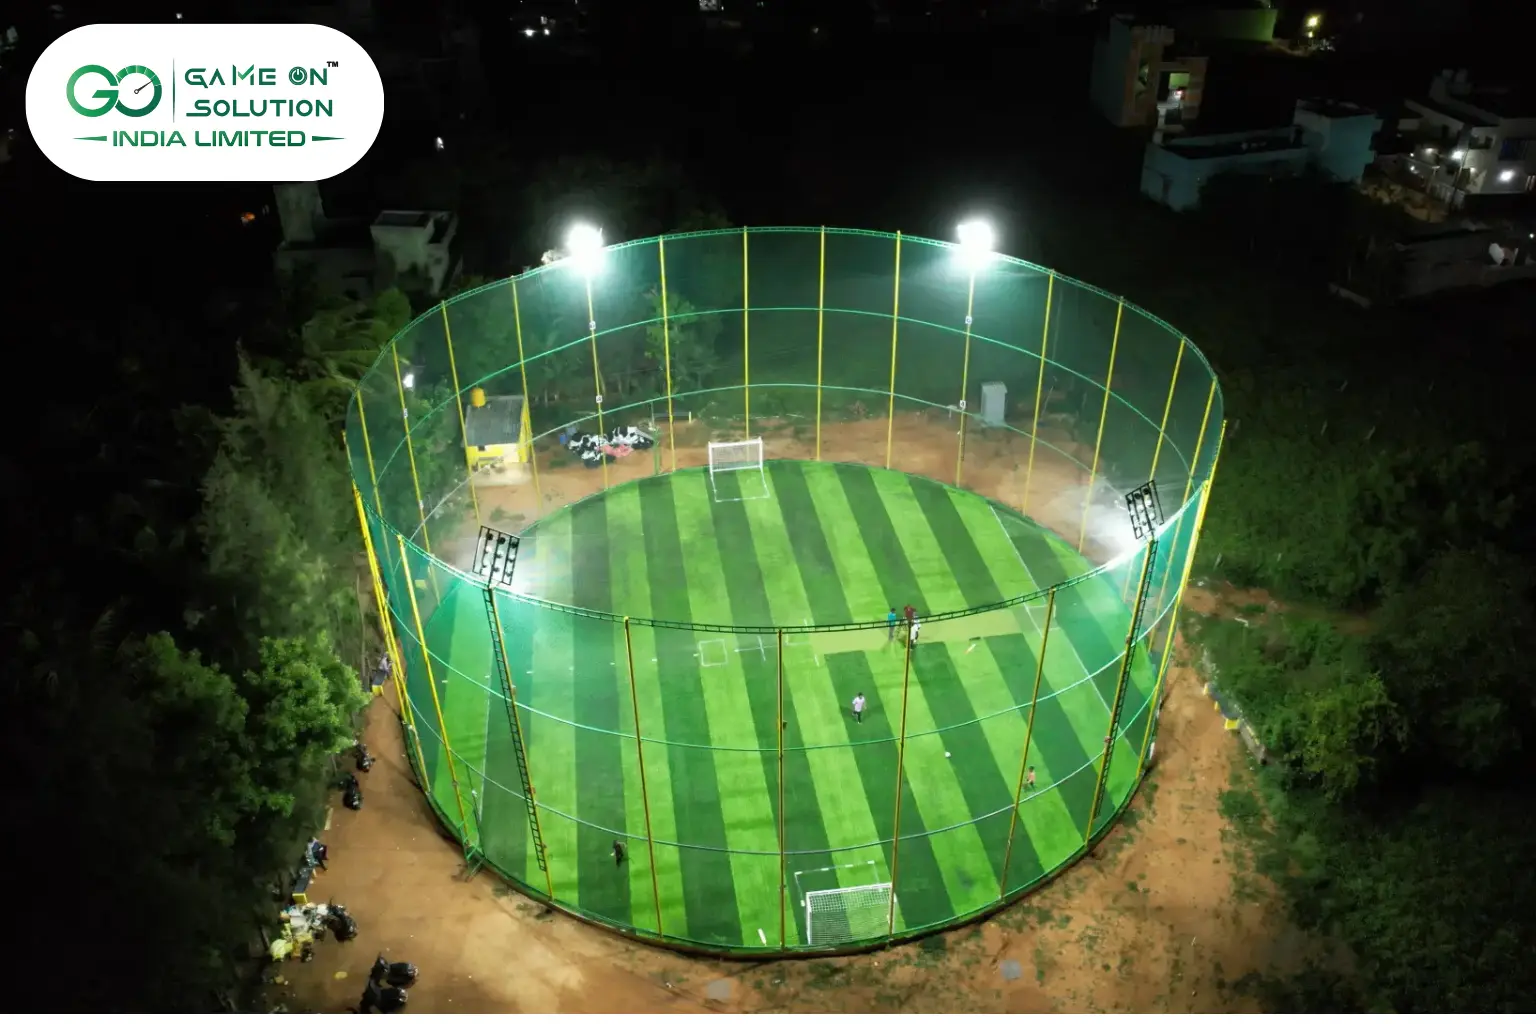
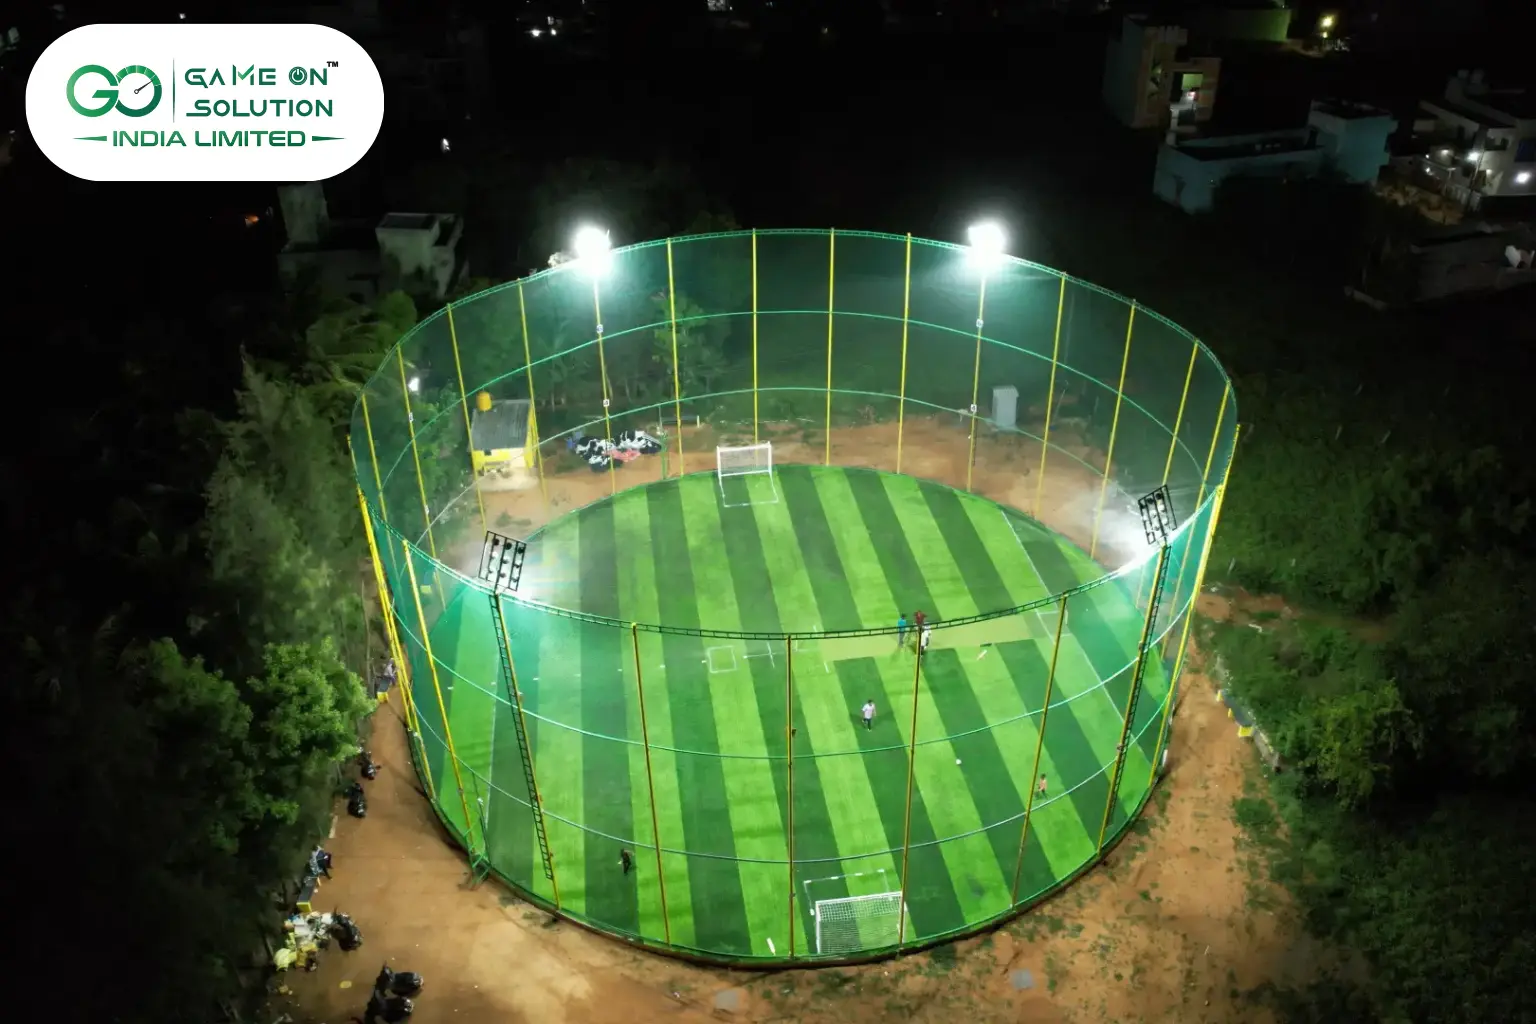
blogs added

diff --git a/src/components/blogData.ts b/src/components/blogData.ts
@@ -3075,6 +3075,7 @@ const blogData = [
 <p>📟 <a href="https://www.youtube.com/watch?v=Un5NBWjWN5k">Watch turf construction insights in Tamil Nadu</a></p>
 `,
   },
+  // 22nd Blog
   {
     slug: "turf-vs-concrete-sports",
     title: "Turf vs Concrete for Sports Use – Which One Should You Choose?",
@@ -3203,6 +3204,216 @@ const blogData = [
 <p>Our team at <a href="https://gameonsolution.in/">GameOn Solution</a>&nbsp;will guide you on surface selection based on sport type, plot location, and budget.</p>
 <p>📞 <strong>Talk to a sports infrastructure expert now - +91 9615737373</strong></p>`,
   },
+  // 23rd Blog
+  {
+    title: "Pickleball Court Construction in Tamil Nadu: Complete 2025 Guide",
+    excerpt:
+      "Looking to build a pickleball court in Tamil Nadu? Our 2025 guide covers everything from costs and permits to materials and maintenance. Get expert tips for constructing the perfect court in Tamil Nadu's climate!",
+    image: "/blog/Blog23.webp",
+    tags: [
+      "Pickleball Court",
+      "Tamil Nadu",
+      "Turf Construction",
+      "Sports Infrastructure",
+      "Court Building Guide",
+    ],
+    content: `<h2><strong>Introduction</strong></h2>
+<p>Are you aware that pickleball is quickly becoming one of India's fastest-growing sports, growing by over 150% in player numbers since 2023? Tamil Nadu is quickly becoming a hub for this exciting paddle sport that merges elements of tennis, badminton, and table tennis! Whether you are a resort owner, sports club director, school leader, or simply a pickleball enthusiast looking to build a personal court, building a good pickleball court in Tamil Nadu requires careful planning and consideration of the unique regional aspects. This detailed guide to pickleball court building in Tamil Nadu has everything you want to know, from regulations and permits to materials and maintenance advice specifically for the local climate. Let's get started and get your pickleball ambitions on the right track!</p>
+<p><strong>Understanding Pickleball Court Basics for Tamil Nadu</strong></p>
+<ul>
+<li>Overview of standard pickleball court measurements (20' x 44') and their importance</li>
+<li>Alterations that may be required due to the climate conditions in Tamil Nadu</li>
+<li>Review of the different kinds of pickleball courts: permanent vs. temporary</li>
+<li>The differences between indoor and outdoor court options relative to Tamil Nadu</li>
+<li>The basic equipment and infrastructure specifications for a certified pickleball court</li>
+</ul>
+<p>Want to explore turf vs court materials in-depth?<br data-start="1277" data-end="1280" /> 👉 <a href="https://gameonsolution.in/blog/turf-vs-concrete-sports">Read our Turf vs Concrete for Sports Comparison</a></p>
+<p><strong>Legal Considerations and Permits for Court Construction in Tamil Nadu</strong></p>
+<ul>
+<li>Overview of Tamil Nadu site permit requirements for recreational structures</li>
+<li>Local zoning regulations that affect pickleball construction</li>
+<li>Considerations relevant to environmental clearances before construction</li>
+<li>State rules regarding sports facility requirements specific to Tamil Nadu</li>
+<li>The process to obtain all local municipal corporation approvals</li>
+</ul>
+<p><strong>Environmental Considerations and Site Preparation in Tamil Nadu</strong></p>
+<ul>
+<li>What to think about when selecting where to construct in Tamil Nadu&rsquo;s diverse geography</li>
+<li>Soil testing and surface preparation characteristics specific to Tamil Nadu</li>
+<li>Drainage considerations and solutions regarding monsoon season</li>
+<li>How the sun and wind move in relationship to your Tamil Nadu location</li>
+<li>Site size, required buffer zones, and egress space for spectator area.</li>
+</ul>
+<p><strong>Pickleball Court Surfaces considering Tamil Nadu's Climate</strong></p>
+<ul>
+<li>Comparison of asphalt, concrete, and modular surfaces, the benefits/limitations of each given Tamil Nadu weather</li>
+<li>Special considerations about humidity and high intensity heat resistance</li>
+<li>Best materials to manage the rains of monsoon season</li>
+<li>An expected cost comparison for surfaces, given that there are local suppliers</li>
+<li>Durability of surfaces in Tamil Nadu's weather events.</li>
+</ul>
+<p>Unsure whether to choose turf or artificial grass surfaces?<br data-start="1528" data-end="1531" /> 👉 <a class="" href="https://gameonsolution.in/blog/understanding-turf-and-artificial-grass" target="_new" rel="noopener" data-start="1534" data-end="1647">Understanding Turf and Artificial Grass</a></p>
+<p><strong>Construction Process, Step-By-Step</strong></p>
+<ul>
+<li>How to clear and excavate the site.</li>
+<li>How to prepare a base and compact for Tamil Nadu soil types.</li>
+<li>Best practices for pouring concrete or laying asphalt.</li>
+<li>Best practices for finishing the surface and applying court coatings, if applicable.</li>
+<li>Best practices for line marking and net installation.</li>
+</ul>
+<p>Curious about compact space installations like rooftops?<br data-start="1760" data-end="1763" /> 👉 <a class="" href="https://gameonsolution.in/blog/rooftop-turf-ground-guide" target="_new" rel="noopener" data-start="1766" data-end="1869">Explore Our Rooftop Turf Construction Guide</a></p>
+<p><strong>Cost Breakdown of Court Construction in Tamil Nadu</strong></p>
+<ul>
+<li>Estimated average total costs for each different type of court as of 2025 (₹3-10 lakhs range)</li>
+<li>Breakdown of costs for materials, labour, and permits, given that these are specific to Tamil Nadu</li>
+<li>Cost differences between Chennai, Coimbatore, Madurai, and other regions</li>
+<li>Ways to save money without sacrificing quality</li>
+<li>Long-term investment consideration and value by factoring long-term maintenance costs.</li>
+</ul>
+<p>Want to know how turf owners recover their investment fast?<br data-start="2001" data-end="2004" /> 👉 <a href="https://gameonsolution.in/blog/turf-vs-real-estate-2025">Turf vs Real Estate: Which Is the Better Investment in 2025?</a></p>
+<p><strong>Local Contractors and Suppliers in Tamil Nadu</strong></p>
+<ul>
+<li>A list of companies building courts and reputable court builders in Tamil Nadu.</li>
+<li>A list of material suppliers to help meet the requirements specific to pickleball.</li>
+<li>How to evaluate and select qualified contractors.</li>
+<li>Timelines for typical project completion for Tamil Nadu location.</li>
+<li>Questions to ask as you consider construction partners to work with.</li>
+</ul>
+<p><strong>Lighting and Other Periphery</strong></p>
+<ul>
+<li>Lighting considerations for evening play in Tamil Nadu.</li>
+<li>Suggestions for fencing materials/options.</li>
+<li>Seating and cover from the sun, or any shade structures, to address heat.</li>
+<li>Storage for equipment.</li>
+<li>Water and restrooms.</li>
+</ul>
+<p><strong>Maintenance Best Practices for Tamil Nadu&rsquo;s Environment</strong></p>
+<ul>
+<li>How to consider a seasonal maintenance schedule. Given the rains and heat of summer.</li>
+<li>Recommendations for how to clean and resurface.</li>
+<li>How to manage cracks and wear in the nature of Tamil Nadu in any weather conditions.</li>
+<li>How to maintain and store equipment.</li>
+<li>Using a professional service for ongoing maintenance services in the region.</li>
+</ul>
+<p>Learn how India&rsquo;s top turf owners manage seasonal wear and tear<br data-start="2267" data-end="2270" /> 👉 <a href="https://gameonsolution.in/blog/why-some-turfs-fail">Why Some Turf Grounds Fail Within a Year (And How to Avoid It)</a></p>
+<h2><strong>Conclusion</strong></h2>
+<p>Building a pickleball court in Tamil Nadu is a rewarding investment that brings this exciting sport to your community! With proper planning, right material choices, and consideration of Tamil Nadu's unique climate patterns, you can build a durable and enjoyable pickleball facility. Keep in mind that it is important to not only find local contractors that are experienced in pickleball court construction but who also understand the unique regional climate conditions, and be sure to obtain all required permits before the project starts. Whether it is for a personal residence, resort, or public facility, your pickleball court will provide players of all ages with years of enjoyment and physical activity. If you are ready to go, reach out to local experts today and begin the first steps toward your pickleball court project!</p>
+`,
+  },
+  // 24th Blog
+  {
+    slug: "backyard-pickleball-court-construction-2025",
+    title:
+      "A Step-by-Step Guide to Building a Backyard Pickleball Court in 2025",
+    excerpt:
+      "Your backyard can be a pickleball oasis! With our full step-by-step guide to building your own pickleball court in 2025, you will have everything you need to create your own backyard pickleball court project from beginning to play!",
+    image: "/blog/Blog24.webp",
+    tags: [
+      "Pickleball Court",
+      "Backyard Sports",
+      "Court Construction",
+      "DIY Sports Projects",
+      "2025",
+    ],
+    content: `<p>Pickleball is taking the country by storm. With over 36.5 million players taking part in this indicator of paddle sport, it just makes sense. If you're ready to ditch waiting for court time at your local facility, why not create a backyard court and bring the fun home? Building a pickleball court is a great investment in your health, social life, and property! As someone who loves to play pickleball, I can say there is nothing better than simply walking out your front door and playing a quick game of pickleball whenever you feel like it! This guide will take you step-by-step through the entire backyard pickleball construction process, from the planning stages to that first serve. I will provide you with valuable advice and tips to make sure your pickleball court is durable and here to stay! Whether you have a large backyard or you are working with limited space, I will help you every step of the way.</p>
+<p><strong>Let's get to it! Planning a Backyard Pickleball Court</strong></p>
+<ul>
+<li>Evaluate available space dimensions (recommended minimum size is 30' x 60' for a single court).</li>
+<li>Check your landscaping and topography.</li>
+<li>Identify the ideal orientation for your court (north-south orientation to reduce sun glare).</li>
+<li>Check for zoning laws, HOA rules and restrictions, or permits.</li>
+<li>Evaluate your available budget to meet your specific court needs and wants.</li>
+</ul>
+<p><strong>Choosing a Site Location</strong></p>
+<ul>
+<li>Determine if there are flat areas or areas that can be made relatively flat.</li>
+<li>Consider your proximity to neighbors and noise created by the game.</li>
+<li>Evaluate the sun exposure during the time frame you expect to play.</li>
+<li>Check for drainage patterns or other locations where water may run off.</li>
+<li>Plan for having access to water and electricity for construction and future utility options.</li>
+</ul>
+<p><strong>Design Considerations and Court Specifications</strong></p>
+<ul>
+<li>A standard pickleball court includes a 20' x 44' playing area.</li>
+<li>Recommendations to include buffer zones beyond your court boundaries are recommended (5 to 10 feet more).</li>
+<li>Determining between permanent vs. temporary/portable courts.</li>
+<li>Select the appropriate height and style to contain the balls where a fence is desired.</li>
+<li>Planning possible additional options like lights, seating, or shade.</li>
+</ul>
+<p>Planning a multi-use turf instead of a hard court?<br /> 👉 <a href="https://gameonsolution.in/blog/minimum-area-for-turf">Minimum Area Required for Turf Installation</a></p>
+<p><strong>Site Preparation Requirements</strong></p>
+<ul>
+<li>Clearing away everything that is not desired for your new project area, including vegetation, rocks, or debris.</li>
+<li>Proper soil testing is necessary to develop a base's requirements.</li>
+<li>Accurate measuring and marking of your court layout.</li>
+<li>Excavation to the correct depth (4 to 8 inches is normal for base materials).</li>
+<li>Establish the desired slope for drainage (1-2% grade is recommended).&nbsp; &nbsp; &nbsp; &nbsp; &nbsp; &nbsp; &nbsp; &nbsp; &nbsp; &nbsp; &nbsp; &nbsp; &nbsp; &nbsp; &nbsp; &nbsp; &nbsp; &nbsp; &nbsp;</li>
+</ul>
+<p>Curious about how rooftop turfs handle surface leveling?</p>
+<p>👉 <a class="" href="https://gameonsolution.in/blog/rooftop-turf-ground-guide" target="_new" rel="noopener" data-start="1443" data-end="1546">Explore Our Rooftop Turf Construction Guide</a></p>
+<p><strong>Building a Good Foundation</strong></p>
+<ul>
+<li>Install geotextile to help kill weed growth and stabilize surface area.</li>
+<li>Add and compact aggregate (stone, crushed). (gravel, etc.)</li>
+<li>Making sure to put in drainage to prevent water pooling</li>
+<li>Make sure you're using professional-grade equipment to achieve a level surface.</li>
+<li>Make sure you allow the proper time for curing before proceeding with surface installation.</li>
+</ul>
+<p><strong>Choosing and Installing Your Court Surface</strong></p>
+<ul>
+<li>Comparing concrete, asphalt, and modular tile surfacing options</li>
+<li>Step-by-step process for pouring and finishing concrete</li>
+<li>Asphalt installation considerations and requirements for professionals to perform the work</li>
+<li>DIY-friendly modular tile process for installation</li>
+<li>Applying the appropriate sealants or surface treatments for longevity</li>
+</ul>
+<p>Not sure which surface is best for your backyard?<br /> 👉 <a href="https://gameonsolution.in/blog/turf-vs-concrete-sports">Turf vs Concrete for Sports Use</a></p>
+<p><strong>Surface Finishing and Court Coating</strong></p>
+<ul>
+<li>Selecting the proper court coating products for your climate</li>
+<li>Application of acrylic resurfacer and color coats as directed by the manufacturer</li>
+<li>Creating the proper texture for ball bounce and player safety</li>
+<li>Knowing the drying time between coatings</li>
+<li>Professional tips for getting a smooth, even finish</li>
+</ul>
+<p><strong>Line Marking and Court Layout</strong></p>
+<ul>
+<li>Measuring out lines for full regulation pickleball courts</li>
+<li>Creating straight lines that are crisp (tape methods vs. painting)</li>
+<li>Recommended paints and application tools for clear, durable lines</li>
+<li>Potential mistakes you could make when marking your court</li>
+<li>How to check your court to see if it meets the regulatory requirements</li>
+</ul>
+<p><strong>Net Installation and Equipment Setup</strong></p>
+<ul>
+<li>Deciding between a permanent net system and a portable one</li>
+<li>Step-by-step installation of your net post (for permanent courts)</li>
+<li>How to make sure you have the correct height and tension (34" in the center and 36" at the sides)</li>
+<li>Recommended equipment storage solutions for a backyard court</li>
+<li>Other accessories to increase your enjoyment</li>
+</ul>
+<p><strong>Finishing Touches and Amenities</strong></p>
+<ul>
+<li>Adding court lighting for evening play opportunities</li>
+<li>Adding fencing or windscreens to take care of ball containment</li>
+<li>Providing comfortable seating and shade features for players and spectators</li>
+<li>Landscaping ideas to accompany your new court</li>
+<li>Security and protection of your court considerations</li>
+</ul>
+<p><strong>Maintenance Best Practices</strong></p>
+<ul>
+<li>Regular cleaning and maintenance to keep your court clean</li>
+<li>Seasonal maintenance for different weather conditions</li>
+<li>How to deal with common issues based on surface (cracks/chips/damage)</li>
+<li>Resurfacing timelines and requirements for the long term</li>
+<li>Making sure you winterize your court in cold climate locations</li>
+</ul>
+<p>Learn from turf owners who manage courts through seasonal extremes:<br /> 👉 <a href="https://gameonsolution.in/blog/why-some-turfs-fail">Why Some Turf Grounds Fail Within a Year (And How to Avoid It)</a></p>
+<p><strong>Conclusion</strong></p>
+<p>Building your own backyard pickleball court is a huge undertaking but rewarding in so many ways with years of enjoyment, exercise, and social interaction in your own backyard! Make no mistake&mdash;building your own court requires some planning and investment, but nothing beats having your own court that you can access at will without worrying about fighting over court time, adjusting your schedule to public court availability, and heading across town to go and play! If you follow this guiding resource and take the time to do it right at each step of the way, you will have a premier court space that will become the centerpiece of your outdoor living space. </p>
+`,
+  },
+  
 ];
 
 export default blogData;

diff --git a/src/components/blog.tsx b/src/components/blog.tsx
@@ -309,6 +309,23 @@ const BlogPage = () => {
         "Wondering whether to build your sports area with turf or concrete? This guide compares both in terms of cost, safety, performance, and maintenance.",
       image: "/blog/Blog22.webp",
     },
+    {
+      id: 23,
+      slug: "pickleball-court-construction-tamilnadu",
+      title: "Pickleball Court Construction in Tamil Nadu: Complete 2025 Guide",
+      excerpt:
+        "Looking to build a pickleball court in Tamil Nadu? Our 2025 guide covers everything from costs and permits to materials and maintenance. Get expert tips for constructing the perfect court in Tamil Nadu's climate!",
+      image: "/blog/Blog23.webp",
+    },
+    {
+      id: 24,
+      slug: "backyard-pickleball-court-construction-2025",
+      title:
+        "A Step-by-Step Guide to Building a Backyard Pickleball Court in 2025",
+      excerpt:
+        "Your backyard can be a pickleball oasis! With our full step-by-step guide to building your own pickleball court in 2025, you will have everything you need to create your own backyard pickleball court project from beginning to play!",
+      image: "/blog/Blog24.webp",
+    },
   ];
 
   const handleBlogClick = (slug: string) => {
